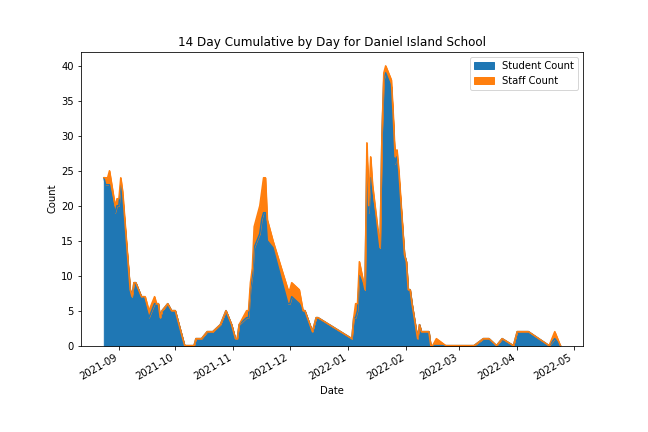
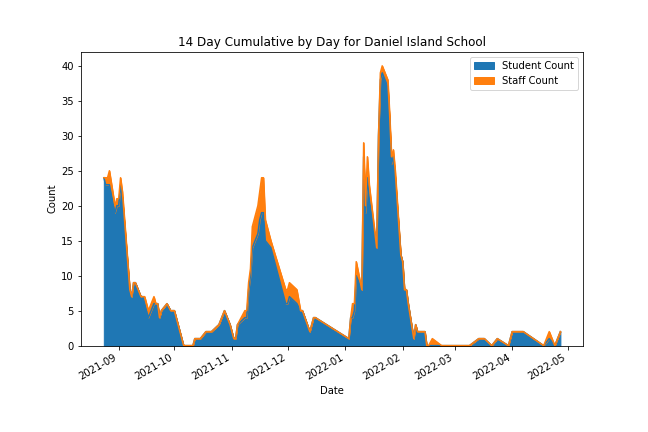
Report created by Github actions on 2022-04-28

diff --git a/output/report.md b/output/report.md
@@ -39,14 +39,18 @@ This notebook provides various processing and infographics on COVID dashboard re
 
 ###  By Student Count
 
+    Data is not available for today: 2022-04-28
+    Most recent date with data is 2022-04-27
+
+
 
 | School                  | Date                |   Staff Count |   Student Count |   Staff Close Contacts |   Student Close Contacts |
 |:------------------------|:--------------------|--------------:|----------------:|-----------------------:|-------------------------:|
 | College Park Elementary | 2022-04-27 00:00:00 |             0 |               3 |                      0 |                        0 |
-| Cane Bay Middle         | 2022-04-27 00:00:00 |             0 |               2 |                      0 |                        1 |
+| Daniel Island School    | 2022-04-27 00:00:00 |             0 |               2 |                      0 |                        0 |
 | Stratford High          | 2022-04-27 00:00:00 |             0 |               2 |                      0 |                        0 |
+| Cane Bay Middle         | 2022-04-27 00:00:00 |             0 |               2 |                      0 |                        1 |
 | Berkeley High School    | 2022-04-27 00:00:00 |             0 |               1 |                      0 |                        0 |
-| College Park Middle     | 2022-04-27 00:00:00 |             1 |               1 |                      0 |                        0 |
 
 
 ### By Staff Count
@@ -55,10 +59,10 @@ This notebook provides various processing and infographics on COVID dashboard re
 | School                   | Date                |   Staff Count |   Student Count |   Staff Close Contacts |   Student Close Contacts |
 |:-------------------------|:--------------------|--------------:|----------------:|-----------------------:|-------------------------:|
 | Macedonia Middle         | 2022-04-27 00:00:00 |             2 |               0 |                      0 |                        0 |
+| Bowens Corner Elementary | 2022-04-27 00:00:00 |             1 |               0 |                      0 |                        0 |
 | College Park Middle      | 2022-04-27 00:00:00 |             1 |               1 |                      0 |                        0 |
 | Cane Bay High            | 2022-04-27 00:00:00 |             1 |               1 |                      0 |                        0 |
-| Bowens Corner Elementary | 2022-04-27 00:00:00 |             1 |               0 |                      0 |                        0 |
-| Goose Creek High         | 2022-04-27 00:00:00 |             0 |               0 |                      0 |                        0 |
+| Berkeley Middle          | 2022-04-27 00:00:00 |             0 |               0 |                      0 |                        0 |
 
 
 ## Top 5 Highest Schools All Time
@@ -302,9 +306,9 @@ Difference between 2022-04-27 and 2022-04-24. Student Count: 0. Staff Count: 0
 
 
 ### [Daniel Island School](graphics/30.png)
+On 2022-04-27 Student Count: 2. Staff Count: 0  
 On 2022-04-24 Student Count: 0. Staff Count: 0  
-On 2022-04-21 Student Count: 1. Staff Count: 1  
-Difference between 2022-04-24 and 2022-04-21. Student Count: -1. Staff Count: -1
+Difference between 2022-04-27 and 2022-04-24. Student Count: 2. Staff Count: 0
 
 
 
@@ -673,9 +677,9 @@ Difference between 2022-04-27 and 2022-04-24. Student Count: 0. Staff Count: 0
 
 
 ### [Westview Middle](graphics/83.png)
+On 2022-04-27 Student Count: 0. Staff Count: 0  
 On 2022-04-24 Student Count: 0. Staff Count: 0  
-On 2022-04-21 Student Count: 0. Staff Count: 0  
-Difference between 2022-04-24 and 2022-04-21. Student Count: 0. Staff Count: 0
+Difference between 2022-04-27 and 2022-04-24. Student Count: 0. Staff Count: 0
 
 
 
@@ -692,5 +696,5 @@ On 2022-04-24 Student Count: 0. Staff Count: 0
 Difference between 2022-04-27 and 2022-04-24. Student Count: 0. Staff Count: 0
 
 
-    This file generated on 2022-04-27 23:52:33.906697 UTC
+    This file generated on 2022-04-28 23:51:27.485473 UTC
 
